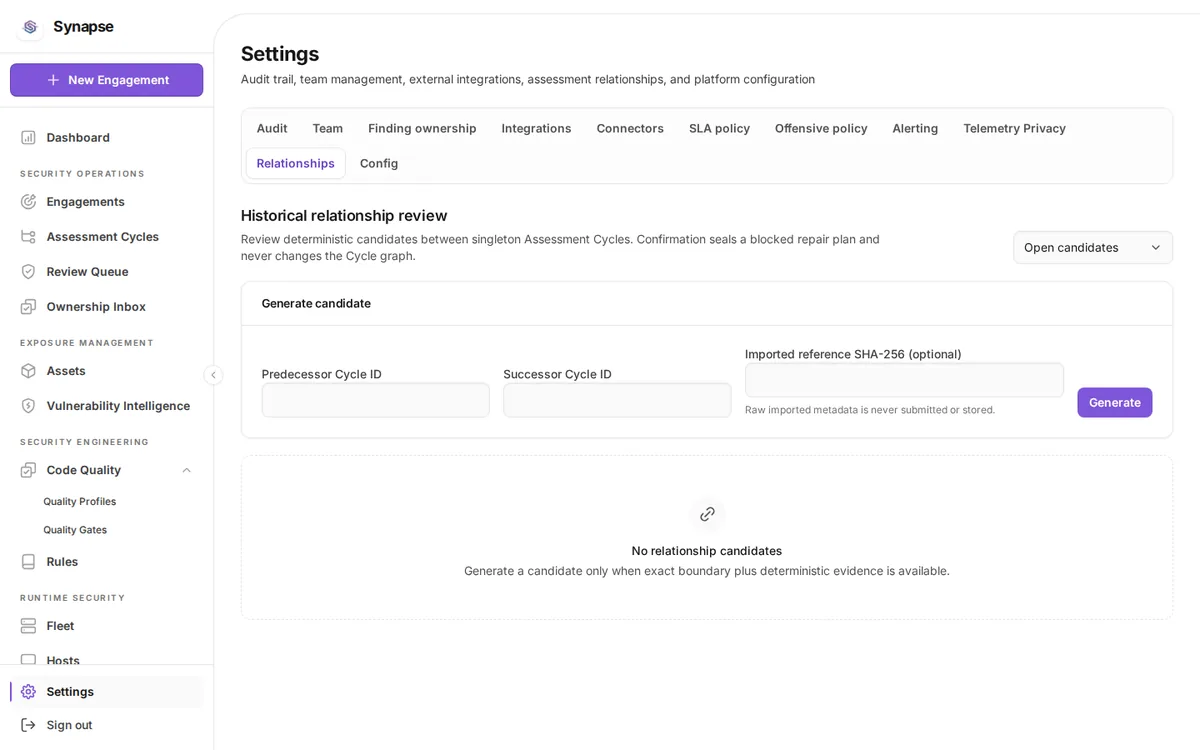
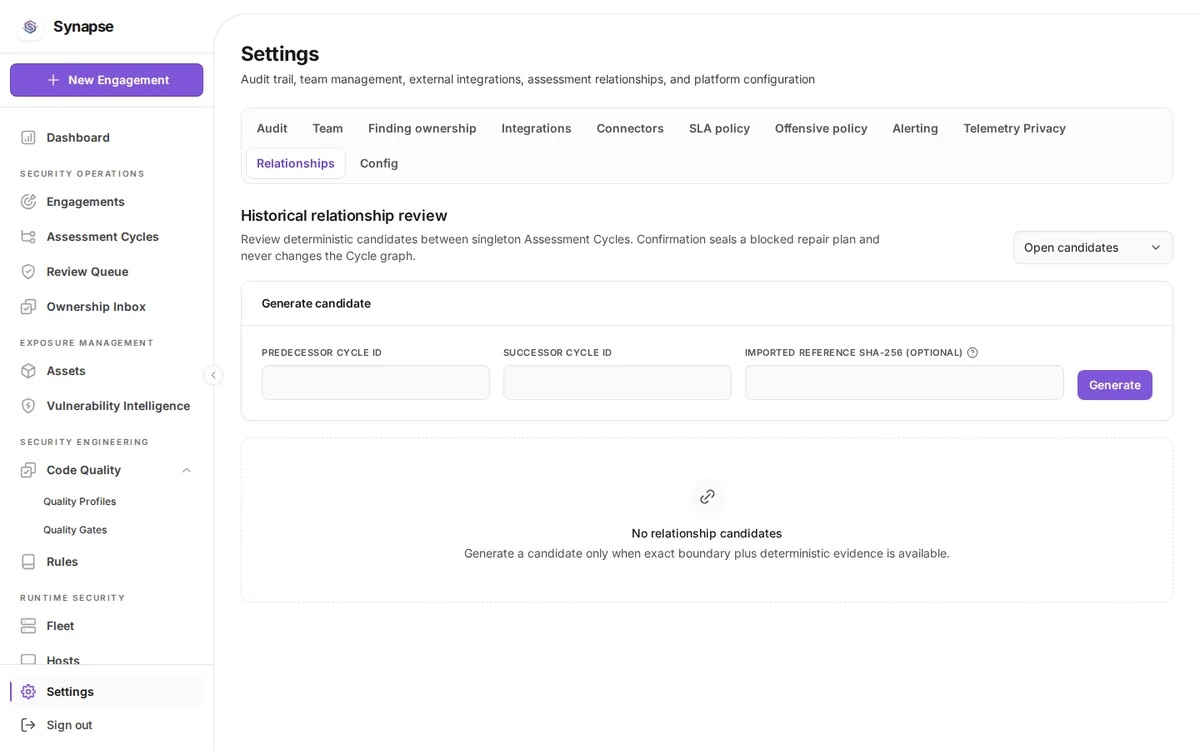
fix(web): align the three boxes on the relationship form
They were hand-rolled labels rather than the shared field, and the third
carried its note as a line under the input. That made it taller than the other
two, so a row meant to align on its inputs aligned on the bottom of the tallest
box: the third field sat visibly high and its note read as fine print beneath
it.

All three use the shared field now, which puts the note in a tooltip beside the
label the way every other form in the dashboard does, and the boxes line up
because they are the same height again. The field association and the
description the control announces are the shared component's, so the screen
reader behaviour is unchanged.

Its two captures are retaken; nothing else moved, so nothing else is.

diff --git a/web/src/pages/Settings/AssessmentRelationships.tsx b/web/src/pages/Settings/AssessmentRelationships.tsx
@@ -6,7 +6,7 @@ import type {
   AssessmentRelationshipDecisionAction,
   AssessmentRelationshipStatus,
 } from '../../lib/types'
-import { Button, Card, EmptyState, ErrorState, Input, Pill, Select, Spinner } from '../../components/ui'
+import { Button, Card, EmptyState, ErrorState, Field, Input, Pill, Select, Spinner } from '../../components/ui'
 
 const STATUS_OPTIONS = [
   { value: 'open', label: 'Open candidates' },
@@ -129,16 +129,18 @@ export function AssessmentRelationships() {
 
       <Card title="Generate candidate">
         <form className="grid gap-4 lg:grid-cols-[1fr_1fr_1.4fr_auto] lg:items-end" onSubmit={generate}>
-          <label className="space-y-1.5 text-sm font-medium text-secondary">
-            Predecessor Cycle ID
+          {/* These three were hand-rolled labels, and the third carried its note as a line under the
+              input. That made it taller than the other two, so a row meant to align on its inputs
+              aligned on the bottom of the tallest box and the third field sat visibly high. Field
+              puts the note in a tooltip beside the label, where every other form in the dashboard
+              puts one, and the three boxes line up because they are now the same height. */}
+          <Field label="Predecessor Cycle ID">
             <Input required value={predecessorCycleId} onChange={(event) => setPredecessorCycleId(event.target.value)} autoComplete="off" />
-          </label>
-          <label className="space-y-1.5 text-sm font-medium text-secondary">
-            Successor Cycle ID
+          </Field>
+          <Field label="Successor Cycle ID">
             <Input required value={successorCycleId} onChange={(event) => setSuccessorCycleId(event.target.value)} autoComplete="off" />
-          </label>
-          <label className="space-y-1.5 text-sm font-medium text-secondary">
-            Imported reference SHA-256 (optional)
+          </Field>
+          <Field label="Imported reference SHA-256 (optional)" hint="Raw imported metadata is never submitted or stored.">
             <Input
               value={importedReferenceHash}
               onChange={(event) => setImportedReferenceHash(event.target.value)}
@@ -146,10 +148,8 @@ export function AssessmentRelationships() {
               minLength={64}
               maxLength={64}
               autoComplete="off"
-              aria-describedby="relationship-reference-hint"
             />
-            <span id="relationship-reference-hint" className="block text-xs font-normal text-quaternary">Raw imported metadata is never submitted or stored.</span>
-          </label>
+          </Field>
           <Button type="submit" loading={generating}>Generate</Button>
         </form>
       </Card>

diff --git a/CHANGELOG.md b/CHANGELOG.md
@@ -31,6 +31,8 @@ and this project aims to adhere to [Semantic Versioning](https://semver.org/spec
 
 - **An engagement outside an Assessment Cycle can still run a comparison.** Cycles are opt-in and the lifecycle endpoint answers 404 for an Assessment in none, which is most of them. The comparison tab read the lifecycle and the snapshot list as one pair, so that 404 failed the whole screen with `not found: assessment "..." does not belong to any cycle`, on a comparison that works: an Assessment's own snapshots can still be compared against each other, which is the only pair most engagements need. The empty state now gates on finalized snapshots, which is what a comparison actually requires.
 
+- **Three fields on the relationship form line up.** The form's three boxes were hand-rolled labels rather than the shared field, and the third carried its note as a line under the input. That made it taller than the other two, so a row meant to align on its inputs aligned on the bottom of the tallest box and the third field sat visibly high, with the note reading as fine print beneath it. All three use the shared field now, which puts the note in a tooltip beside the label, where every other form in the dashboard puts one.
+
 - **The chain rehearsal warning is one surface, and its hint icon is no longer a stray tab stop.** The callout tinted the panel and left the body in the secondary text colour, so only the bold lead read as a warning and the rest read as grey fine print. Separately, the hint icon beside a field label is decorative, with its text delivered to assistive technology through the field's `aria-describedby`, and its wrapper is `aria-hidden`; it stayed focusable, which is a WAI-ARIA violation in the direction that hurts, because a keyboard user lands on a control that reports no name and no role. The UI sweep now reports that, and stops reporting its opposite: it had been counting buttons under `aria-hidden` as unnamed, and flagging every wide table inside its own horizontal scroller as clipped, both of which buried the findings that matter.
 
 - **A tool's error is scrubbed of secrets, not only its output.** The sandbox runner removes resolved secrets from a tool's stdout and stderr at one chokepoint, before either reaches the recon log or the evidence seal. The error returned beside them goes to the same places, a run's error field and the operator's screen, and nothing scrubbed it. That gap became a leak the moment the runner started quoting the tool's first stderr line in an initialization failure: a tool is handed its secrets through the child environment, so one that dies during initialization can print a token on that line. An error with nothing to remove is returned unchanged, so error identity is untouched on the path every run takes; a scrubbed one keeps the original in its chain so `errors.Is` and `errors.As` still match.
@@ -40,6 +42,8 @@ and this project aims to adhere to [Semantic Versioning](https://semver.org/spec
 - **Data governance is reachable.** Legal hold, subject-access export and on-demand erasure shipped complete: a domain type, a store with a migration and both persistence twins, a usecase service, three handlers, their routes, and a Data Governance tab in the dashboard. No composition root ever constructed any of them, so the routes were never registered and the tab could only render "this feature is switched off", naming an environment variable that had nothing to do with it. They are built alongside the detection ledger, because its projection is the data they govern: the ledger consults the hold before retention expiry and before an erasure, fail-closed, so a held engagement refuses deletion rather than allowing it. Verified end to end against a live server: placing a hold, listing it, an erasure refused with 403 while held, the release, and the erasure then accepted.
 
 - **A restart no longer locks an engagement out of scanning forever.** A scan the API runs in-process dies with the process, but its `scan_jobs` row stays `running`, and `scan_jobs_one_running_per_engagement` rejects the next scan for that engagement with a conflict. There is no route to cancel a scan, so the engagement was finished: every later attempt returned 409 while the dashboard kept reporting a scan in progress that nothing was executing. The sweeper that reclaims exactly this row existed and did not run. `synapse-worker` starts it unconditionally, but the API started it only when it had wired an in-process SCA worker, which is the deployment that has a durable queue and a second process to recover the work. The deployment with neither, where a crash strands the scan and no worker is running to sweep it, was the one left with no sweeper at all. The API now runs both the scan and the recon sweeper on any PostgreSQL deployment, and the inline execution paths hold the run lease the sweepers read as their liveness signal, so a live inline scan is told apart from a stranded one by the lease rather than only by elapsed time.
+
+- **A fully resolved scan stops calling itself incomplete.** Completeness judges a scan confident when a resolving source pinned the versions, and it counted committed lockfiles, the OS package database, and the Maven and Gradle resolvers, each of which records a synthetic marker for exactly that purpose. The npm resolver and the manifest resolvers never got one, and those are the resolvers that exist to handle a manifest with no committed lockfile: the very case the warning was written for. A scan that resolved all 1,171 components therefore reported "Only 1,171 of 1,171 components have pinned versions; some dependencies are unresolved and may be under-reported", a sentence whose own numbers contradict it. Each resolver now records its marker and clears its ecosystem from the unresolved set. An ecosystem that did not resolve still keeps the scan incomplete, which is the half of this that has to keep working.
 
 - **A resolved npm, Composer, Bundler or Poetry project gets its dependency paths back.** The resolvers run the ecosystem's own lock tool over a throwaway copy of a lockfile-less manifest, and the owned parser they hand the generated lockfile to returns the components and the dependency edges. Every one of them discarded the edges. The SBOM then carried a complete component inventory with an empty graph, and everything downstream that reads the graph degraded silently: `IsDirect` classified every package as transitive, `PathToRoot` produced no path, the introducing direct dependencies came back empty, remediation could not solve an upgrade, and the Dependency Graph tab had nodes and no edges. On a real scan of an application with 1,171 resolved packages, all 86 vulnerabilities were reported with `Direct: false` and no path, so a CVE in a top-level dependency was indistinguishable from one six levels down. The resolvers now expose the graph through an optional interface, the way the Gradle resolver already did, and the pipeline folds the resolved edges over the generator's for the ecosystems the resolver actually covered, leaving any other ecosystem's graph intact.
 
